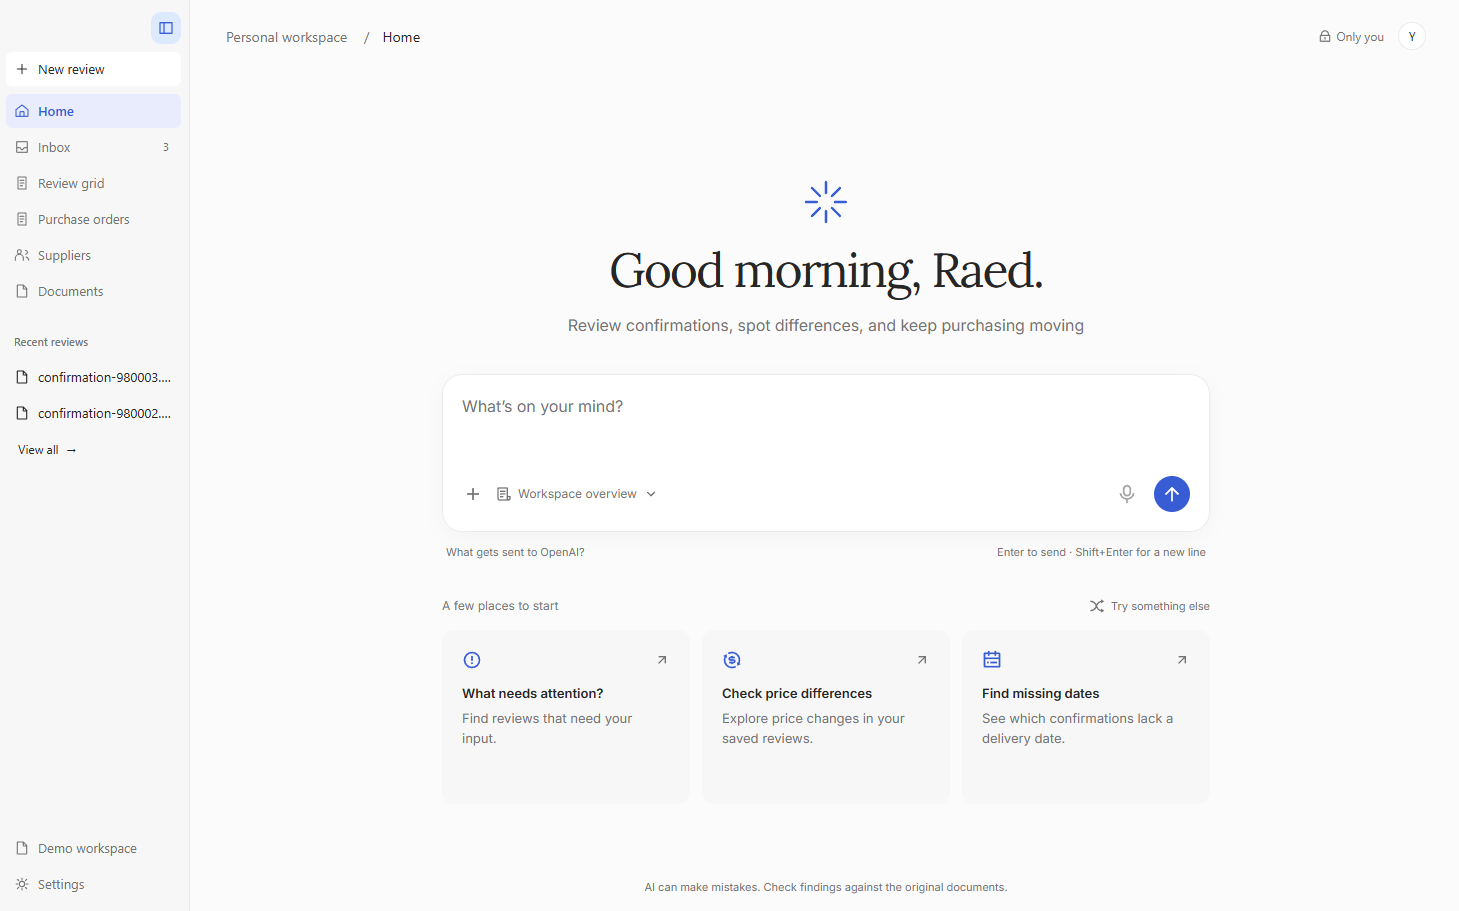
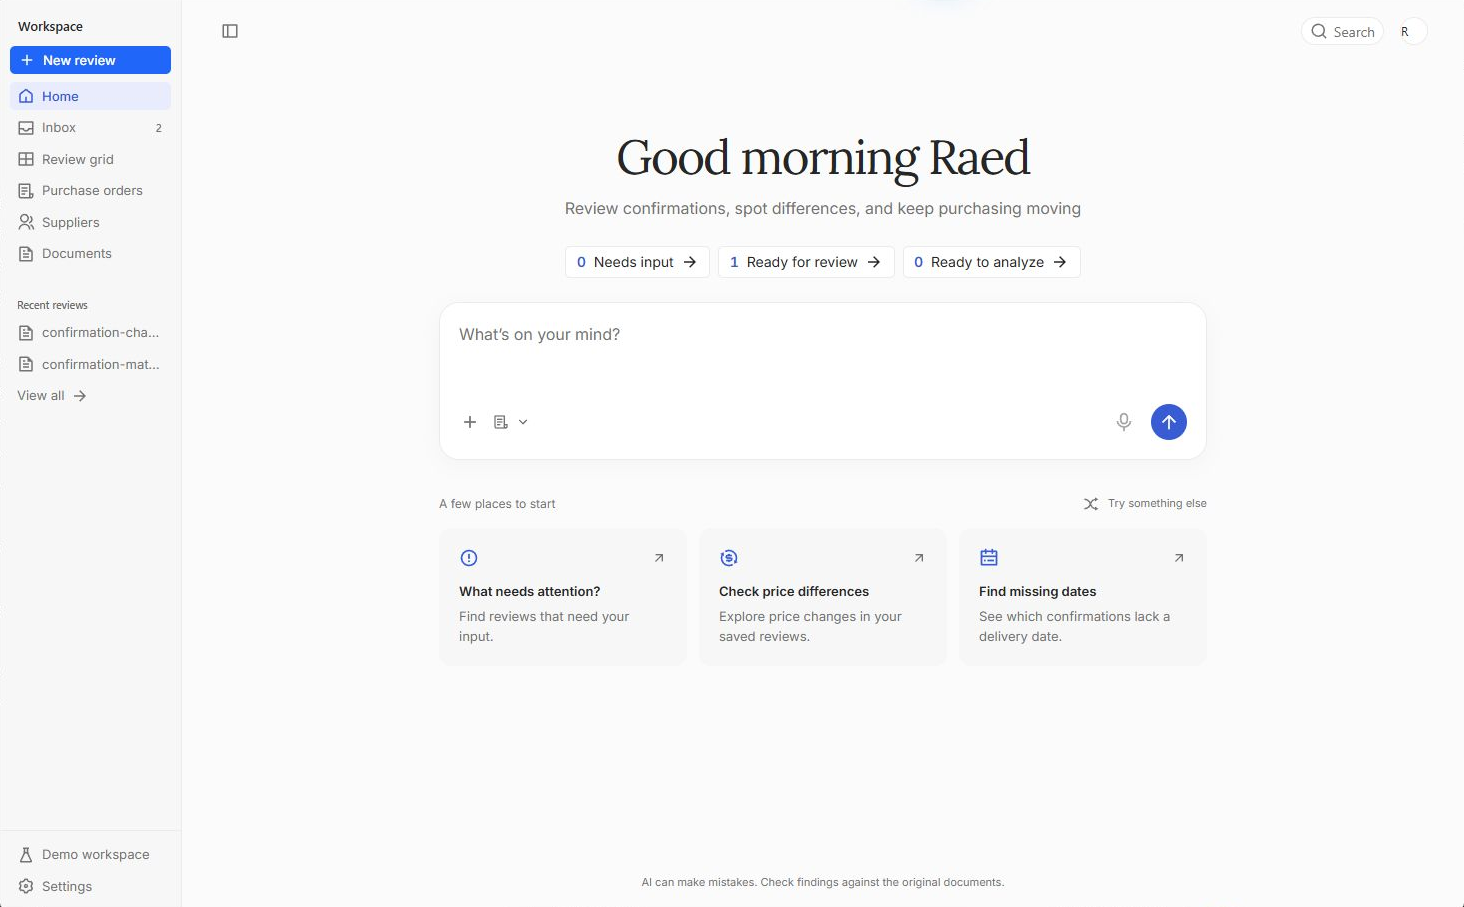
Refresh Purchasing AI portfolio screenshots

diff --git a/src/routes/projects/purchasing-ai.tsx b/src/routes/projects/purchasing-ai.tsx
@@ -45,7 +45,7 @@ const steps = [
 
 const shots = [
   { img: reviewGrid, title: "Review grid", alt: "Review grid listing supplier confirmations with status and number of findings", text: "Each confirmation gets a row with its status and number of findings. A reviewed row means a buyer recorded a review, not that the order was accepted." },
-  { img: homeAttention, title: "What needs attention", alt: "Home screen listing reviews that need attention, such as a price difference on PO 450127", text: "The home screen lists reviews that need the buyer: here a price difference on one order and missing information on another." },
+  { img: homeAttention, title: "What needs attention", alt: "Home screen summarizing two confirmations for PO 450127 and flagging a unit price difference", text: "The home screen summarizes two confirmations for the same purchase order and flags a unit price difference for the buyer to verify." },
   { img: replyDraft, title: "Reply draft and inspection", alt: "Editable supplier reply draft listing price, revision, delivery date and freight questions", text: "The app drafts a reply that the buyer edits, then saves or copies. Nothing is sent from the app, and marking a review inspected does not accept the supplier's terms." },
   { img: assistant, title: "Workspace questions", alt: "Home screen with a question box and suggested prompts about saved reviews", text: "Buyers can ask read-only questions about the workspace or a selected review, for example which confirmations lack a delivery date." },
 ];
@@ -169,7 +169,7 @@ function CaseStudy() {
             </li>
           </ol>
           <figure className="mt-8">
-            <Frame src={reviewEvidence.url} alt="Synthetic review for PO 450127. Line 10 is flagged at 2.40 versus 2.55 SEK per piece, and the Evidence workspace offers Check the source." eager />
+            <Frame src={reviewEvidence.url} alt="Analysis for synthetic PO 450127 showing the unit price difference on line 10 and the Check the source button." eager />
             <figcaption className="mt-3 text-sm text-muted-foreground">
               Synthetic example shown in the prototype. Select the screenshot to enlarge it.
             </figcaption>
